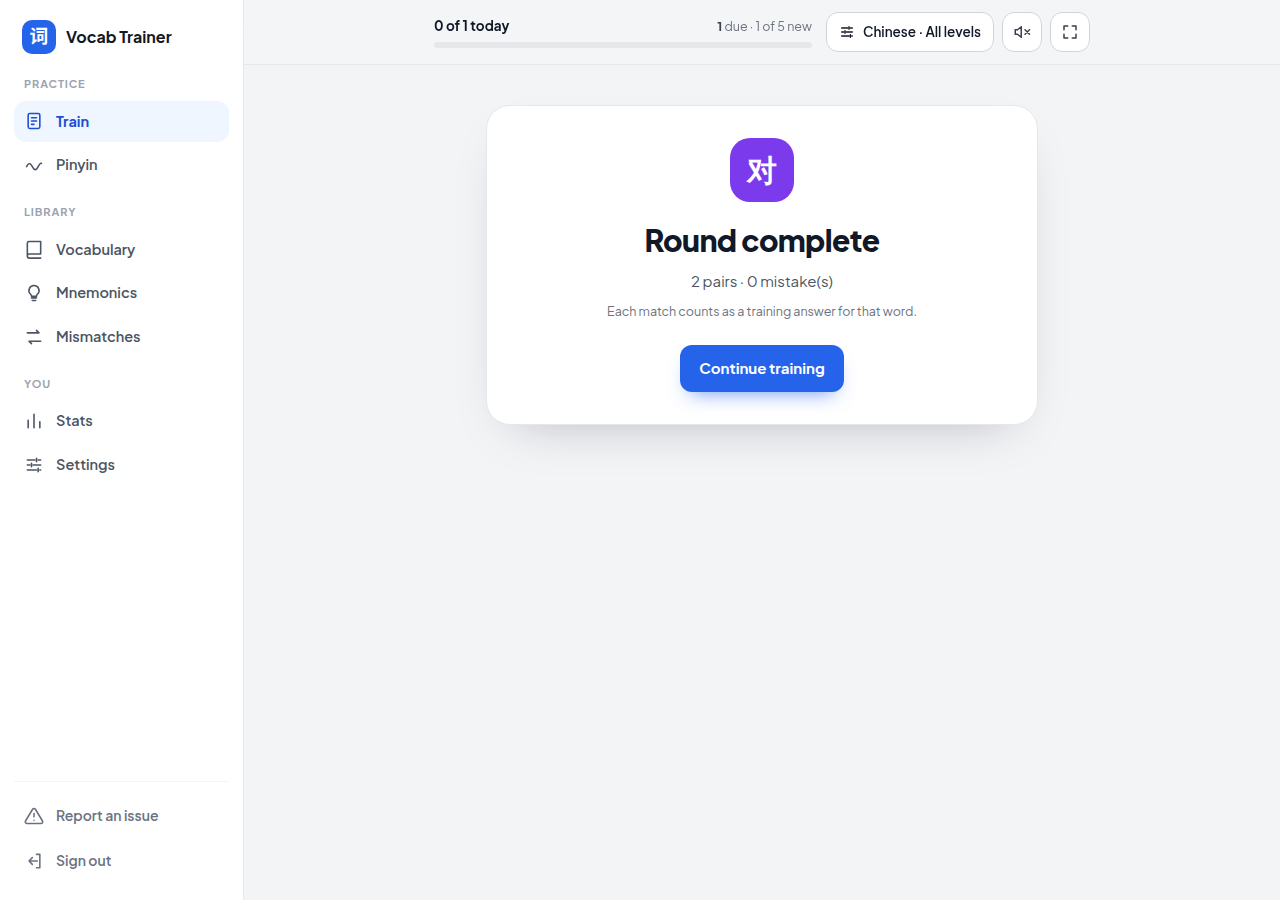
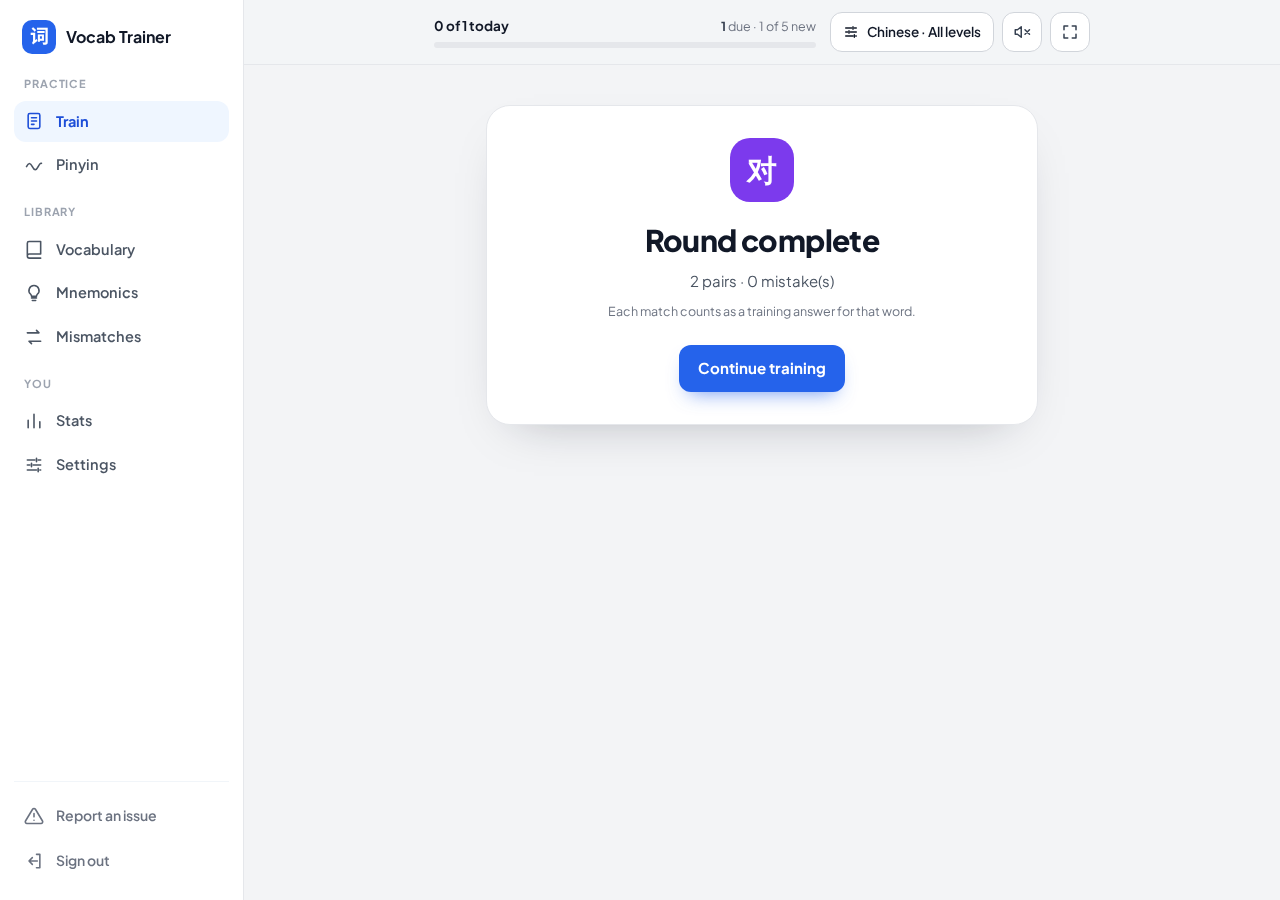
Add match-game round summary setting and wrong-only done note
New match_game_show_summary setting (default on) lets users skip the
"Round complete" screen; the screen's note now reflects the "only wrong
answers" progress setting.

diff --git a/service/frontend/i18n.js b/service/frontend/i18n.js
@@ -708,6 +708,8 @@ const I18N = {
     'settings.sm2UpdateNever': 'Never',
     'settings.sm2UpdateWrongOnly': 'Only wrong answers',
     'settings.sm2UpdateAlways': 'Always',
+    'settings.matchGameShowSummary': 'Show round summary after the match game',
+    'settings.matchGameShowSummaryDesc': 'Show the "Round complete" screen after each match game. When off, training continues right away.',
 
     'settings.componentTraining': 'Component Training',
     'settings.componentTrainingDesc': "Words are broken into hanzi components (radicals and sub-parts) for the character breakdown and component quiz. Instead of training every component, pick a target: as new words start training, only enough components — starting with whichever unlocks the most words you haven't covered yet — are added to reach that share of your Chinese vocabulary. Already-trained components are never removed by this setting.",
@@ -946,6 +948,7 @@ const I18N = {
     'match.doneTitle': 'Round complete',
     'match.doneStats': '{pairs} pairs · {mistakes} mistake(s)',
     'match.doneNote': 'Each match counts as a training answer for that word.',
+    'match.doneNoteWrongOnly': 'Only wrong matches count as a training answer for that word.',
     'match.continue': 'Continue training',
   },
 
@@ -1656,6 +1659,8 @@ const I18N = {
     'settings.sm2UpdateNever': '从不',
     'settings.sm2UpdateWrongOnly': '仅答错时',
     'settings.sm2UpdateAlways': '总是',
+    'settings.matchGameShowSummary': '配对游戏后显示本轮总结',
+    'settings.matchGameShowSummaryDesc': '每次配对游戏结束后显示“本轮完成”界面。关闭后将直接继续训练。',
 
     'settings.componentTraining': '部件训练',
     'settings.componentTrainingDesc': '词汇会被拆分为汉字部件（部首和子部分），用于字形拆解和部件测验。你可以设定一个目标，而不是训练每个部件：当新词开始训练时，只添加足够的部件——优先选择能覆盖最多尚未覆盖词汇的部件——以达到你中文词汇的目标覆盖率。已在训练中的部件永远不会被此设置移除。',
@@ -1894,6 +1899,7 @@ const I18N = {
     'match.doneTitle': '本轮完成',
     'match.doneStats': '{pairs} 对 · {mistakes} 次错误',
     'match.doneNote': '每次配对都算作该词的一次训练答题。',
+    'match.doneNoteWrongOnly': '仅答错的配对会算作该词的一次训练答题。',
     'match.continue': '继续训练',
   },
 
@@ -2604,6 +2610,8 @@ const I18N = {
     'settings.sm2UpdateNever': 'Nie',
     'settings.sm2UpdateWrongOnly': 'Nur falsche Antworten',
     'settings.sm2UpdateAlways': 'Immer',
+    'settings.matchGameShowSummary': 'Rundenzusammenfassung nach dem Zuordnungsspiel anzeigen',
+    'settings.matchGameShowSummaryDesc': 'Zeigt nach jedem Zuordnungsspiel den Bildschirm „Runde geschafft“. Wenn aus, geht das Training sofort weiter.',
 
     'settings.componentTraining': 'Bestandteil-Training',
     'settings.componentTrainingDesc': 'Wörter werden für die Zeichen-Zerlegung und das Bestandteil-Quiz in Hanzi-Bestandteile (Radikale und Unterteile) zerlegt. Statt jeden Bestandteil zu trainieren, gibst du ein Ziel vor: Sobald neue Wörter ins Training kommen, werden nur so viele Bestandteile hinzugefügt wie nötig — angefangen mit dem, der die meisten noch nicht abgedeckten Wörter freischaltet — um diesen Anteil deines chinesischen Wortschatzes zu erreichen. Schon trainierte Bestandteile werden durch diese Einstellung nie entfernt.',
@@ -2842,6 +2850,7 @@ const I18N = {
     'match.doneTitle': 'Runde geschafft',
     'match.doneStats': '{pairs} Paare · {mistakes} Fehler',
     'match.doneNote': 'Jedes Paar zählt als Trainingsantwort für das Wort.',
+    'match.doneNoteWrongOnly': 'Nur falsche Paare zählen als Trainingsantwort für das Wort.',
     'match.continue': 'Weiter trainieren',
   },
 };

diff --git a/e2e/train-redesign.spec.js b/e2e/train-redesign.spec.js
@@ -223,6 +223,46 @@ test.describe('Train redesign – new word and match game', () => {
     // @ts-ignore
     expect(await page.evaluate(() => window.__mgDone)).toBe(true);
   });
+
+  async function playMatchGame(page, settings) {
+    await registerUser(page);
+    await seed(page, '你好', 'nǐ hǎo', ['hello']);
+    await useMode(page, 'zh_to_transl');
+    const st = await (await page.request.get('/api/settings')).json();
+    await page.request.patch('/api/settings', { data: { ...st, ...settings } });
+    await page.goto('/train');
+    await expect(page.locator('#card-area')).toBeVisible({ timeout: 12_000 });
+    await page.evaluate(() => {
+      // @ts-ignore
+      window.__mgDone = false;
+      // @ts-ignore
+      window.showMatchGame([
+        { zh_word_id: 9601, zh_text: '猫', pinyin: 'māo', translations: { en: ['cat'] } },
+        { zh_word_id: 9602, zh_text: '狗', pinyin: 'gǒu', translations: { en: ['dog'] } },
+      ]).then(() => { window.__mgDone = true; });
+    });
+    const game = page.locator('#match-game-overlay');
+    await game.locator('.mg-tile', { hasText: 'dog' }).click();
+    await game.locator('.mg-tile', { hasText: '狗' }).click();
+    await game.locator('.mg-tile', { hasText: 'cat' }).click();
+    await game.locator('.mg-tile', { hasText: '猫' }).click();
+    return game;
+  }
+
+  test('the done note says only wrong matches count when progress is "only wrong answers"', async ({ page }) => {
+    await playMatchGame(page, { match_game_sm2_update: 'wrong_only' });
+    await expect(page.locator('#match-continue-btn')).toBeVisible();
+    await expect(page.locator('#match-game-overlay')).toContainText('Only wrong matches count as a training answer');
+    await captureForPR(page, 'train-match-game-done-wrong-only');
+  });
+
+  test('the done screen is skipped when "show round summary" is off', async ({ page }) => {
+    const game = await playMatchGame(page, { match_game_show_summary: false });
+    await expect(game).toBeHidden();
+    await expect(page.locator('#match-continue-btn')).toHaveCount(0);
+    // @ts-ignore
+    expect(await page.evaluate(() => window.__mgDone)).toBe(true);
+  });
 });
 
 test.describe('Train redesign – phone', () => {

diff --git a/service/frontend/train-matchgame.js b/service/frontend/train-matchgame.js
@@ -74,6 +74,11 @@ function pickMatchGameTranslationText(translations, fallbackText) {
 // It renders inline in the Train card column (not as a modal): left column
 // Chinese tiles, right column one translation each, shuffled. Either column
 // can be tapped first. Resolves when the round is finished or skipped.
+function matchGameDoneNoteKey(sm2Update) {
+  if (sm2Update === 'never') return null;
+  return sm2Update === 'wrong_only' ? 'match.doneNoteWrongOnly' : 'match.doneNote';
+}
+
 function showMatchGame(words) {
   return new Promise(resolve => {
     const host = document.getElementById('train-container') || document.body;
@@ -198,12 +203,14 @@ function showMatchGame(words) {
     }
 
     function showDone() {
+      if (!_matchGameShowSummary) { finish(); return; }
+      const noteKey = matchGameDoneNoteKey(_matchGameSm2Update);
       overlay.innerHTML = `
         <div class="tr-center">
           <div class="tr-tile tr-tile-violet font-hanzi" aria-hidden="true">对</div>
           <h2 class="tr-h1">${escHtml(t('match.doneTitle'))}</h2>
           <p class="tr-sub">${escHtml(t('match.doneStats', { pairs: words.length, mistakes }))}</p>
-          ${_matchGameSm2Update !== 'never' ? `<p class="tr-muted-sm" style="margin:10px auto 0;max-width:36ch">${escHtml(t('match.doneNote'))}</p>` : ''}
+          ${noteKey ? `<p class="tr-muted-sm" style="margin:10px auto 0;max-width:36ch">${escHtml(t(noteKey))}</p>` : ''}
           <button id="match-continue-btn" type="button" class="ui-btn ui-btn-primary tr-mt-24">${escHtml(t('match.continue'))}</button>
         </div>`;
       const btn = overlay.querySelector('#match-continue-btn');

diff --git a/service/frontend/settings.html b/service/frontend/settings.html
@@ -335,6 +335,10 @@
           <label class="st-text" for="match-game-sm2-update"><span class="st-label" data-i18n="settings.matchGameSm2Update">Match-game answers change training progress</span><span class="st-desc" data-i18n="settings.matchGameSm2UpdateDesc">Controls which matches in the mini-game count as a training answer for the word or component.</span></label>
           <select id="match-game-sm2-update" class="st-select"><option value="never" data-i18n="settings.sm2UpdateNever">Never</option><option value="wrong_only" data-i18n="settings.sm2UpdateWrongOnly">Only wrong answers</option><option value="always" data-i18n="settings.sm2UpdateAlways">Always</option></select>
         </div>
+        <div class="st-row ">
+          <label class="st-text" for="match-game-show-summary"><span class="st-label" data-i18n="settings.matchGameShowSummary">Show round summary after the match game</span><span class="st-desc" data-i18n="settings.matchGameShowSummaryDesc">Show the "Round complete" screen after each match game. When off, training continues right away.</span></label>
+          <span class="ui-toggle"><input type="checkbox" id="match-game-show-summary"><span></span></span>
+        </div>
       </section>
       <section id="component-training-section" class="st-box" data-settings-autosave="component-threshold">
         <h2 class="st-title" data-i18n="settings.componentTraining">Component Training</h2>

diff --git a/service/frontend/settings.js b/service/frontend/settings.js
@@ -281,6 +281,8 @@ async function loadSettings() {
     if (matchGamePinyinRevealEl) matchGamePinyinRevealEl.value = st.match_game_pinyin_reveal || 'always';
     const matchGameSm2UpdateEl = document.getElementById('match-game-sm2-update');
     if (matchGameSm2UpdateEl) matchGameSm2UpdateEl.value = st.match_game_sm2_update || 'always';
+    const matchGameShowSummaryEl = document.getElementById('match-game-show-summary');
+    if (matchGameShowSummaryEl) matchGameShowSummaryEl.checked = st.match_game_show_summary !== false;
 
     const compThresholdEl = document.getElementById('component-coverage-threshold');
     if (compThresholdEl) compThresholdEl.value = st.component_coverage_threshold ?? 0;
@@ -739,6 +741,7 @@ function buildFullSettingsPayload() {
     gamification_hide_pinyin_from_bucket: document.getElementById('gamification-hide-pinyin-bucket')?.value || '70-84',
     match_game_pinyin_reveal: document.getElementById('match-game-pinyin-reveal')?.value || 'always',
     match_game_sm2_update: document.getElementById('match-game-sm2-update')?.value || 'always',
+    match_game_show_summary: document.getElementById('match-game-show-summary')?.checked !== false,
     component_coverage_threshold: parseFloat(document.getElementById('component-coverage-threshold')?.value || '0'),
   };
 }

diff --git a/e2e/settings.spec.js b/e2e/settings.spec.js
@@ -222,6 +222,27 @@ test.describe('Settings – Blur pinyin (issue #201)', () => {
   });
 });
 
+test.describe('Settings – Match-game round summary', () => {
+  test.use({ storageState: 'e2e/.auth/user.json' });
+
+  test('"show round summary" defaults to on and persists when turned off', async ({ page }) => {
+    await page.goto('/settings');
+    const toggle = page.locator('#match-game-show-summary');
+    await expect(toggle).toBeChecked();
+    await captureForPR(page, 'settings-match-game-show-summary');
+    await toggle.uncheck();
+    await expect(page.locator('[data-testid="toast"]')).toBeVisible();
+
+    await page.reload();
+    await expect(toggle).not.toBeChecked();
+    expect((await (await page.request.get('/api/settings')).json()).match_game_show_summary).toBe(false);
+
+    // Reset to default.
+    await toggle.check();
+    await expect(page.locator('[data-testid="toast"]')).toBeVisible();
+  });
+});
+
 // Translation ranking: hide rare CEDICT/HanDeDict-derived translations during
 // training, ranked by word frequency, while user-added ones always show.
 test.describe('Settings – Translation ranking', () => {

diff --git a/service/frontend/train-card.js b/service/frontend/train-card.js
@@ -16,6 +16,7 @@ let _gamificationFrequencyMs = 5 * 60 * 1000;
 let _lastGameShownAt = 0;
 let _matchGamePinyinReveal = 'always';
 let _matchGameSm2Update = 'always';
+let _matchGameShowSummary = true;
 const _settingsPromise = fetch('/api/settings').then(r => r.ok ? r.json() : null).then(st => {
   if (st?.primary_lang) userPrimaryLang = st.primary_lang;
   userSecondaryLang = st?.secondary_lang ?? '';
@@ -29,6 +30,7 @@ const _settingsPromise = fetch('/api/settings').then(r => r.ok ? r.json() : null
   _gamificationFrequencyMs = (st?.gamification_frequency ?? 5) * 60 * 1000;
   _matchGamePinyinReveal = st?.match_game_pinyin_reveal || 'always';
   _matchGameSm2Update = st?.match_game_sm2_update || 'always';
+  _matchGameShowSummary = st?.match_game_show_summary !== false;
   const btn = document.getElementById('new-word-skip-btn');
   if (btn && !skipNewWordsVisible) btn.classList.add('hidden');
   // Restore server-persisted training filter settings (overrides localStorage).

diff --git a/service/frontend/train-matchgame.test.js b/service/frontend/train-matchgame.test.js
@@ -123,3 +123,22 @@ describe('matchGameOutcome', () => {
     expect(matchGameOutcome(1, 0, 'Hilfe', 'Hilfe', ['Hilfe'], new Set())).toBe('swap');
   });
 });
+
+// ── Match-game done note (progress setting) ────────────────────────────────
+
+function matchGameDoneNoteKey(sm2Update) {
+  if (sm2Update === 'never') return null;
+  return sm2Update === 'wrong_only' ? 'match.doneNoteWrongOnly' : 'match.doneNote';
+}
+
+describe('matchGameDoneNoteKey', () => {
+  it('has no note when matches never change progress', () => {
+    expect(matchGameDoneNoteKey('never')).toBeNull();
+  });
+  it('uses the wrong-only note for "only wrong answers"', () => {
+    expect(matchGameDoneNoteKey('wrong_only')).toBe('match.doneNoteWrongOnly');
+  });
+  it('uses the generic note for "always"', () => {
+    expect(matchGameDoneNoteKey('always')).toBe('match.doneNote');
+  });
+});

diff --git a/service/handlers/settings.go b/service/handlers/settings.go
@@ -76,6 +76,7 @@ func (h *SettingsHandler) Patch(w http.ResponseWriter, r *http.Request) {
 		GamificationHidePinyinFromBucket string   `json:"gamification_hide_pinyin_from_bucket"`
 		MatchGamePinyinReveal            string   `json:"match_game_pinyin_reveal"`
 		MatchGameSM2Update               string   `json:"match_game_sm2_update"`
+		MatchGameShowSummary             *bool    `json:"match_game_show_summary"`
 		BlurPinyin                       bool     `json:"blur_pinyin"`
 		NoAutoVoiceOnBlur                bool     `json:"no_auto_voice_on_blur"`
 		CelebrateBucketChange            bool     `json:"celebrate_bucket_change"`
@@ -250,6 +251,16 @@ func (h *SettingsHandler) Patch(w http.ResponseWriter, r *http.Request) {
 		resolvedGamificationEnabled = *req.GamificationEnabled
 	}
 
+	// Omitted by older clients → keep the stored value.
+	resolvedMatchGameShowSummary := true
+	if req.MatchGameShowSummary == nil {
+		if existing, err := h.store.GetUserSettings(r.Context(), UserIDFromContext(r.Context())); err == nil {
+			resolvedMatchGameShowSummary = existing.MatchGameShowSummary
+		}
+	} else {
+		resolvedMatchGameShowSummary = *req.MatchGameShowSummary
+	}
+
 	randCfg := models.RandomModeConfig{
 		TranslToZh:        req.RandomModeRangeTranslToZh,
 		ZhToTransl:        req.RandomModeRangeZhToTransl,
@@ -344,6 +355,7 @@ func (h *SettingsHandler) Patch(w http.ResponseWriter, r *http.Request) {
 		GamificationHidePinyinFromBucket: req.GamificationHidePinyinFromBucket,
 		MatchGamePinyinReveal:            req.MatchGamePinyinReveal,
 		MatchGameSM2Update:               req.MatchGameSM2Update,
+		MatchGameShowSummary:             resolvedMatchGameShowSummary,
 		BlurPinyin:                       req.BlurPinyin,
 		NoAutoVoiceOnBlur:                req.NoAutoVoiceOnBlur,
 		CelebrateBucketChange:            req.CelebrateBucketChange,

diff --git a/service/db/users.go b/service/db/users.go
@@ -253,6 +253,7 @@ func (s *Store) GetUserSettingsRaw(ctx context.Context, userID int64) (
 		       COALESCE(gamification_hide_pinyin_from_bucket, '70-84'),
 		       COALESCE(match_game_pinyin_reveal, 'always'),
 		       COALESCE(match_game_sm2_update, 'always'),
+		       COALESCE(match_game_show_summary, 1),
 		       COALESCE(wrong_answer_retry_mode, 'off'),
 		       COALESCE(component_coverage_threshold, 0),
 		       COALESCE(sentence_blank_enabled, 0),
@@ -313,6 +314,7 @@ func (s *Store) GetUserSettingsRaw(ctx context.Context, userID int64) (
 		&st.GamificationHidePinyinFromBucket,
 		&st.MatchGamePinyinReveal,
 		&st.MatchGameSM2Update,
+		&st.MatchGameShowSummary,
 		&st.WrongAnswerRetryMode,
 		&st.ComponentCoverageThreshold,
 		&st.SentenceBlankEnabled,
@@ -457,6 +459,7 @@ func (s *Store) UpdateUserSettings(ctx context.Context, userID int64, st models.
 			gamification_hide_pinyin_from_bucket = ?,
 			match_game_pinyin_reveal        = ?,
 			match_game_sm2_update           = ?,
+			match_game_show_summary         = ?,
 			wrong_answer_retry_mode         = ?,
 			component_coverage_threshold    = ?,
 			sentence_blank_enabled          = ?,
@@ -509,6 +512,7 @@ func (s *Store) UpdateUserSettings(ctx context.Context, userID int64, st models.
 		st.GamificationHidePinyinFromBucket,
 		st.MatchGamePinyinReveal,
 		st.MatchGameSM2Update,
+		st.MatchGameShowSummary,
 		st.WrongAnswerRetryMode,
 		st.ComponentCoverageThreshold,
 		st.SentenceBlankEnabled,

diff --git a/service/handlers/settings_test.go b/service/handlers/settings_test.go
@@ -1543,6 +1543,37 @@ func TestSettingsPatch_MatchGameSM2Update(t *testing.T) {
 	}
 }
 
+func TestSettingsPatch_MatchGameShowSummary(t *testing.T) {
+	s := openTestDB(t)
+	r := newRouter(s)
+
+	rec := do(t, r, "GET", "/api/settings", nil)
+	var st map[string]any
+	decodeJSON(t, rec, &st)
+	if st["match_game_show_summary"] != true {
+		t.Errorf("default match_game_show_summary: want true, got %v", st["match_game_show_summary"])
+	}
+
+	body := baseSettingsPatch()
+	body["match_game_show_summary"] = false
+	if rec = do(t, r, "PATCH", "/api/settings", body); rec.Code != http.StatusOK {
+		t.Fatalf("patch status %d: %s", rec.Code, rec.Body.String())
+	}
+	decodeJSON(t, do(t, r, "GET", "/api/settings", nil), &st)
+	if st["match_game_show_summary"] != false {
+		t.Errorf("after patch false: got %v", st["match_game_show_summary"])
+	}
+
+	// A client that omits the field must not reset the stored value.
+	if rec = do(t, r, "PATCH", "/api/settings", baseSettingsPatch()); rec.Code != http.StatusOK {
+		t.Fatalf("patch status %d: %s", rec.Code, rec.Body.String())
+	}
+	decodeJSON(t, do(t, r, "GET", "/api/settings", nil), &st)
+	if st["match_game_show_summary"] != false {
+		t.Errorf("omitted field should keep false, got %v", st["match_game_show_summary"])
+	}
+}
+
 func TestSettingsPatch_MatchGameSM2Update_Invalid(t *testing.T) {
 	s := openTestDB(t)
 	r := newRouter(s)

diff --git a/service/db/migrate/v20261001220000_add_match_game_show_summary.go b/service/db/migrate/v20261001220000_add_match_game_show_summary.go
@@ -1,0 +1,32 @@
+package migrate
+
+import (
+	"database/sql"
+	"fmt"
+)
+
+// v20261001220000: add the "show round summary" gamification setting. When
+// off, the match game skips its "Round complete" screen. Defaults to on so
+// existing behaviour does not change.
+func init() {
+	register(migration{
+		version: 20261001220000,
+		fn: func(db *sql.DB) error {
+			var count int
+			if err := db.QueryRow(
+				`SELECT COUNT(*) FROM pragma_table_info('user_settings') WHERE name = 'match_game_show_summary'`,
+			).Scan(&count); err != nil {
+				return fmt.Errorf("check user_settings.match_game_show_summary column: %w", err)
+			}
+			if count > 0 {
+				return nil
+			}
+			if _, err := db.Exec(
+				`ALTER TABLE user_settings ADD COLUMN match_game_show_summary INTEGER NOT NULL DEFAULT 1`,
+			); err != nil {
+				return fmt.Errorf("add user_settings.match_game_show_summary column: %w", err)
+			}
+			return nil
+		},
+	})
+}
